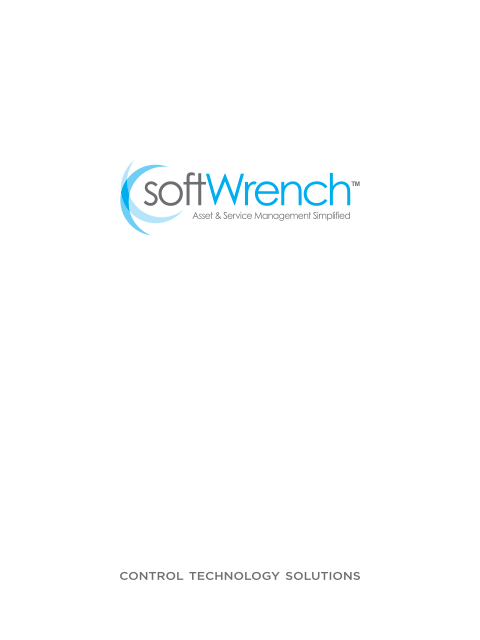
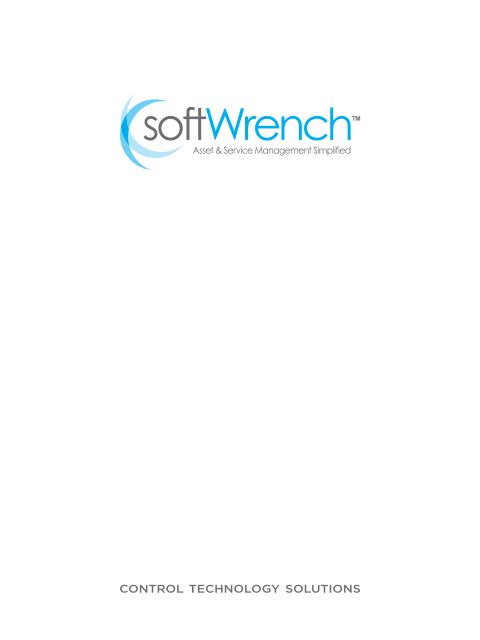
SWOFF-215 Improve UI for tablets
commit 058c90dc2d3e62500f47a6a5a2238eed6a7a927f
Author: Scott A. Matthews <scott@designsbysm.com>
Date:   Tue Aug 9 12:26:37 2016 -0700

    SWOFF-215 update splash screen

commit 4c52288e158bb67f019b001ed29ea0550af42ce5
Author: Scott A. Matthews <scott@designsbysm.com>
Date:   Tue Aug 9 12:15:52 2016 -0700

    SWOFF-215 update composition list without records

commit 986456a1613545daa342a4747a7c39ab11275ea3
Author: Scott A. Matthews <scott@designsbysm.com>
Date:   Tue Aug 9 11:48:42 2016 -0700

    SWOFF-215 update feature item

commit 289d7bd98354cd2e7ca5ba3137da786d714fb610
Author: Scott A. Matthews <scott@designsbysm.com>
Date:   Tue Aug 9 11:40:01 2016 -0700

    SWOFF-215 update autocomplete for iOS

commit aeea671c341f2fae0246834028f168210c4b0553
Author: Scott A. Matthews <scott@designsbysm.com>
Date:   Tue Aug 9 11:23:09 2016 -0700

    SWOFF-215 update status

commit 05ba56a6ef7389db5275c4b027e1f8e2c5187287
Author: Scott A. Matthews <scott@designsbysm.com>
Date:   Tue Aug 9 10:56:10 2016 -0700

    SWOFF-215 update crud list spacings

Changed region(s): [[0.25, 0.1562, 0.75, 0.375], [0.25, 0.875, 0.75, 0.9375]]

diff --git a/softwrench.sW4.WebMobile/www/Content/Mobile/templates/crud_detail.html b/softwrench.sW4.WebMobile/www/Content/Mobile/templates/crud_detail.html
@@ -33,7 +33,7 @@
 
     <ion-content class="crud-details" has-header="true" has-subheader="true" has-bouncing="false" 
                  on-swipe-left="onSwipeLeft()" on-swipe-right="onSwipeRight()" on-scroll="onScroll()" delegate-handle="detailHandler">
-        <div class="crud-title" ng-click="loadMainTab()" style="padding-left: 15px; padding-top: 15px; margin-top: 0; margin-bottom: 15px;" ng-if="isOnMainTab()">
+        <div class="crud-title" ng-click="loadMainTab()" ng-if="isOnMainTab()">
             <div class="row">
                 <div class="col col-25 crud-icon">
                     <crud-icon item="item"></crud-icon>

diff --git a/softwrench.sW4.WebMobile/www/Content/Mobile/styles/_general.scss b/softwrench.sW4.WebMobile/www/Content/Mobile/styles/_general.scss
@@ -146,6 +146,10 @@
                     }
                 }
             }
+
+            input[type=search] {
+                margin-top: 5px;
+            }
         }
     }
 }
@@ -191,6 +195,13 @@ input[disabled], input[readonly]:not(.cloned-text-input), select[disabled], sele
 .input-label {
     font-size: 14px;
     font-weight: bold;
+}
+
+.no-records {
+    .item {
+        border-bottom: none;
+        font-size: 14px;
+    }
 }
 
 /* keeps side-menu open in tablets */

diff --git a/softwrench.sW4.WebMobile/www/Content/Mobile/styles/_details.scss b/softwrench.sW4.WebMobile/www/Content/Mobile/styles/_details.scss
@@ -47,6 +47,11 @@
 .crud-details {
     .crud-title {
         font-size: 16px;
+        padding-left: 15px;
+        padding-right: 15px;
+        padding-top: 10px;
+        margin-top: 0;
+        margin-bottom: 5px;
 
         .summary {
             color: #aaa;
@@ -56,6 +61,8 @@
 
         .featured {
             float: right;
+            color: #919191;
+            font-weight: bold;
         }
 
         .title {

diff --git a/softwrench.sW4.WebMobile/www/Content/Mobile/templates/crud_composition_list.html b/softwrench.sW4.WebMobile/www/Content/Mobile/templates/crud_composition_list.html
@@ -17,8 +17,8 @@
         </ion-item>
     </ion-list>
 
-    <div ng-show="empty()">
-        <h5 class="text-center"><i class="fa fa-info-circle"></i>&ensp;No records to display</h5>
+    <div class="no-records" ng-show="empty()">
+        <h5 class="text-center item"><i class="fa fa-info-circle"></i>&ensp;No records to display</h5>
     </div>
 
 </div>

diff --git a/softwrench.sW4.WebMobile/www/Content/Mobile/styles/_list.scss b/softwrench.sW4.WebMobile/www/Content/Mobile/styles/_list.scss
@@ -112,10 +112,12 @@ crud-icon {
 .crud-list {
     .crud-item {
         cursor: pointer;
+        padding: 10px 15px;
 
         .featured {
             float: right;
-            color: #777;
+            color: #919191;
+            font-weight: bold;
         }
 
         .title {
